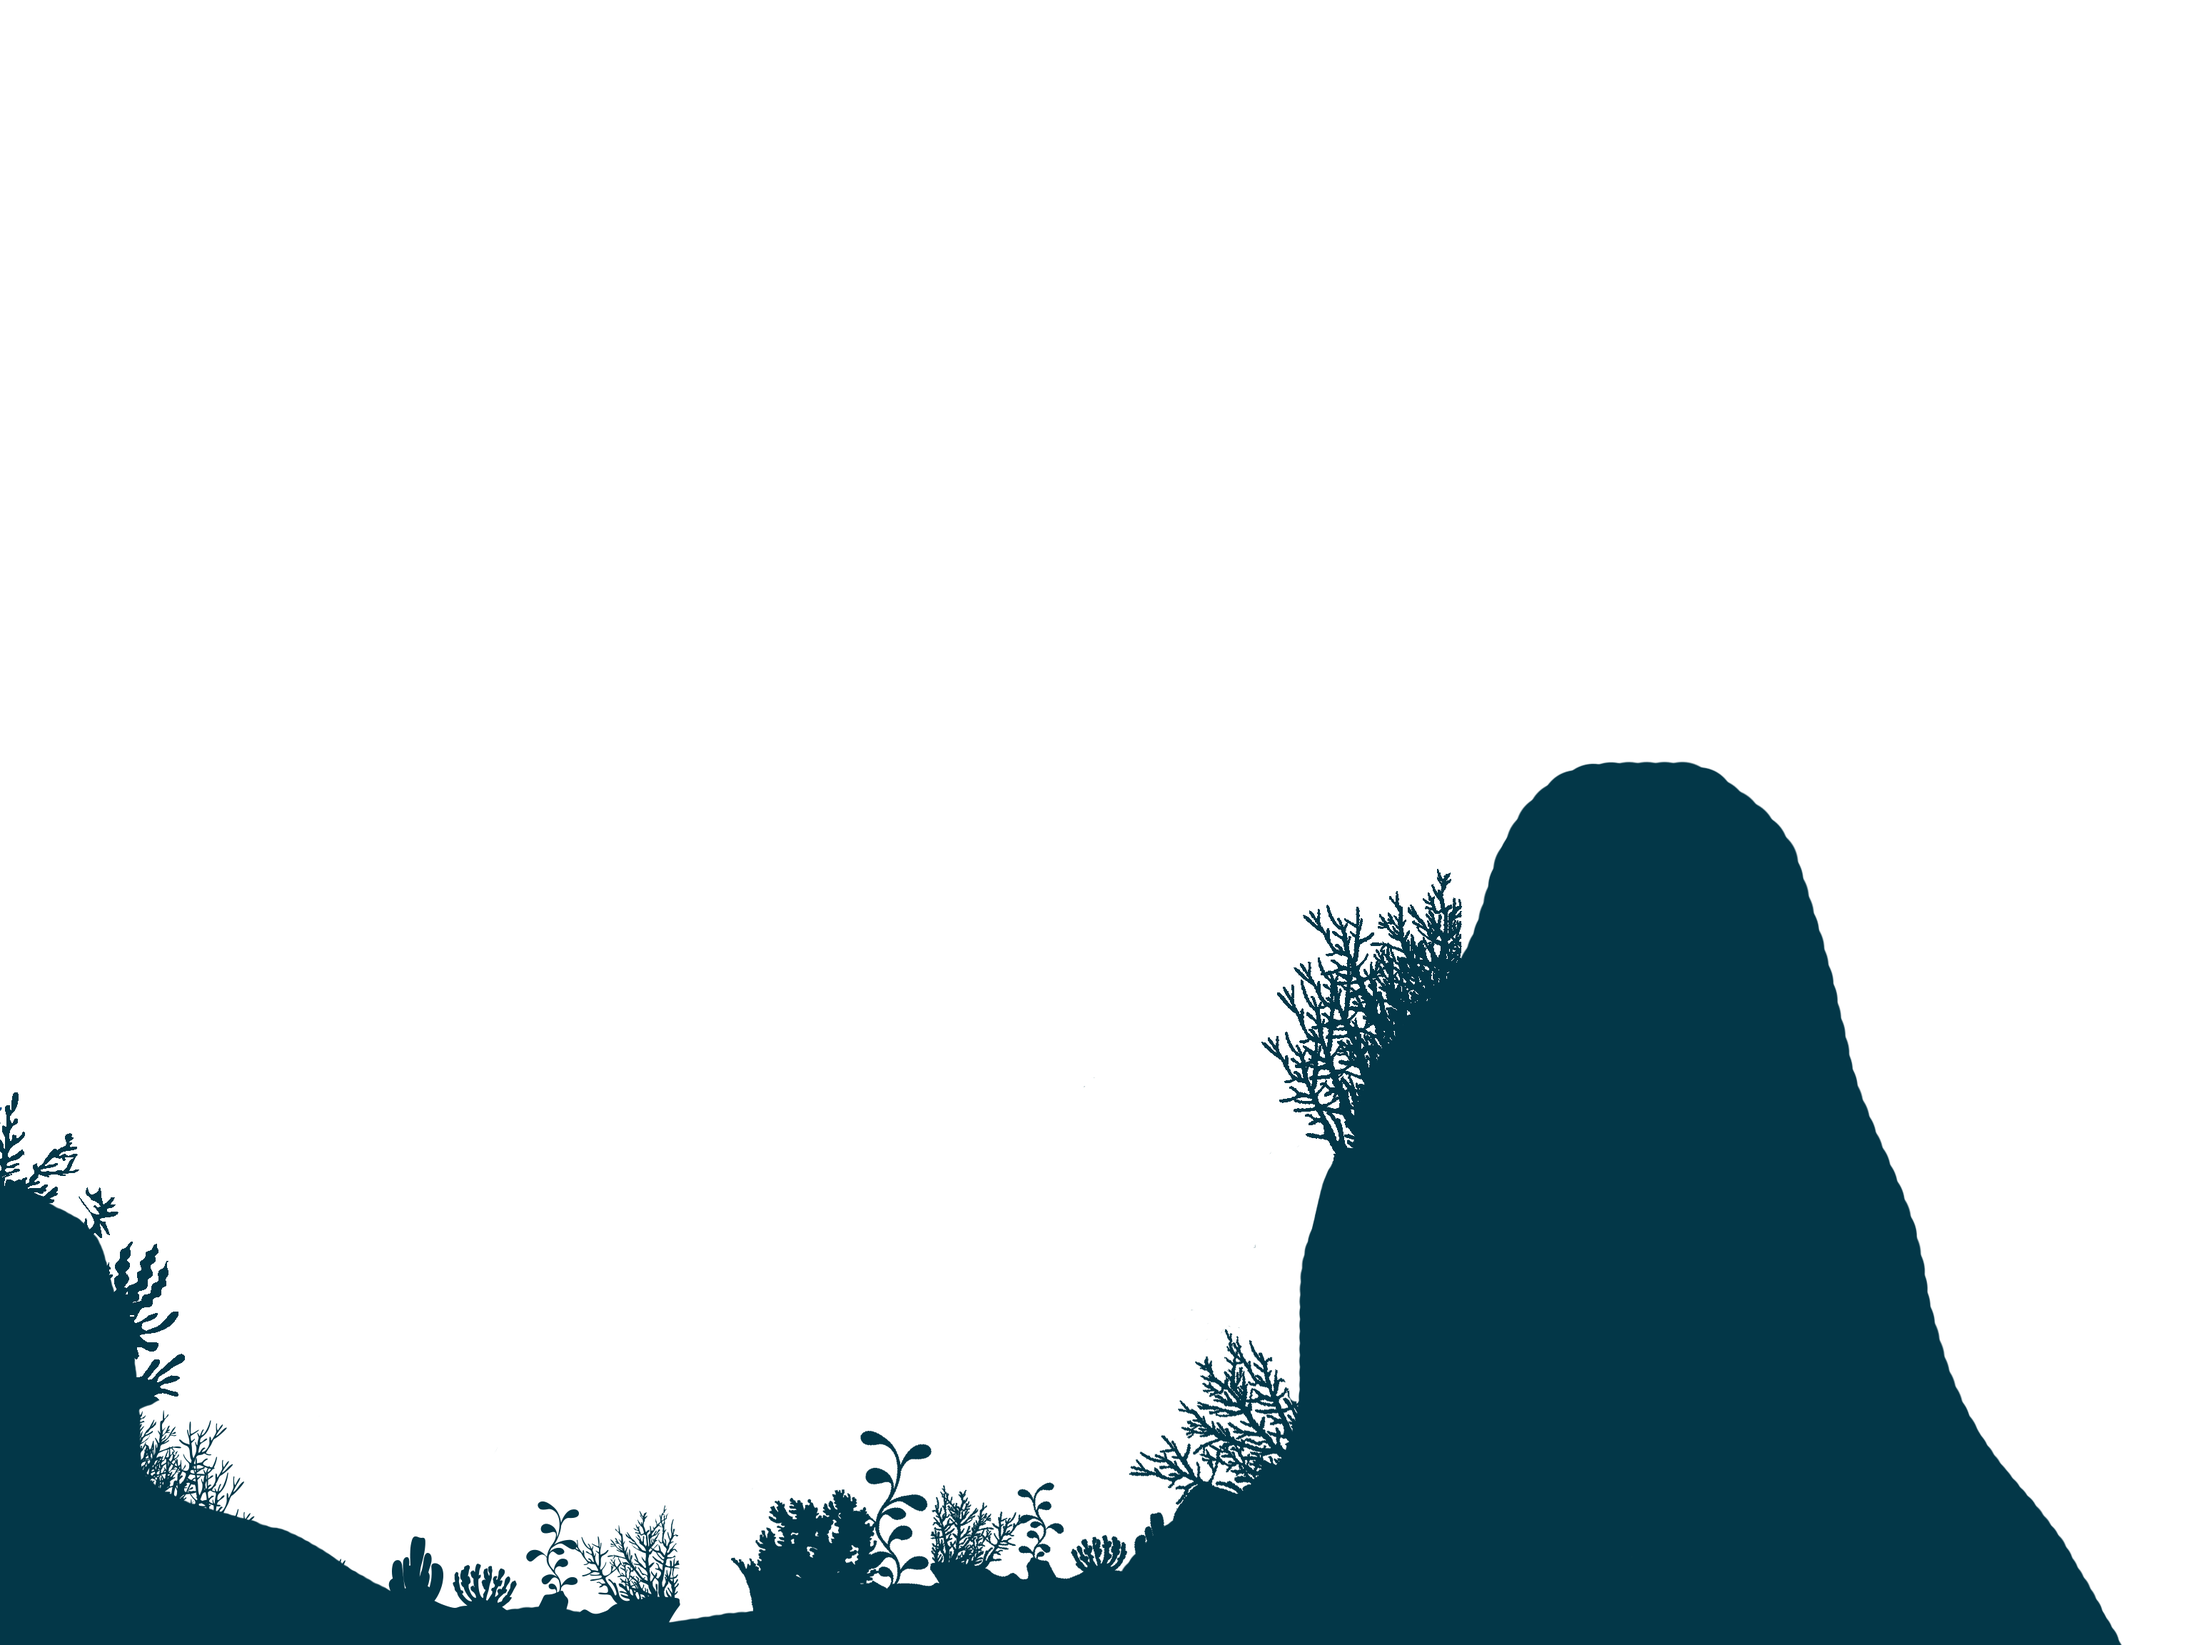
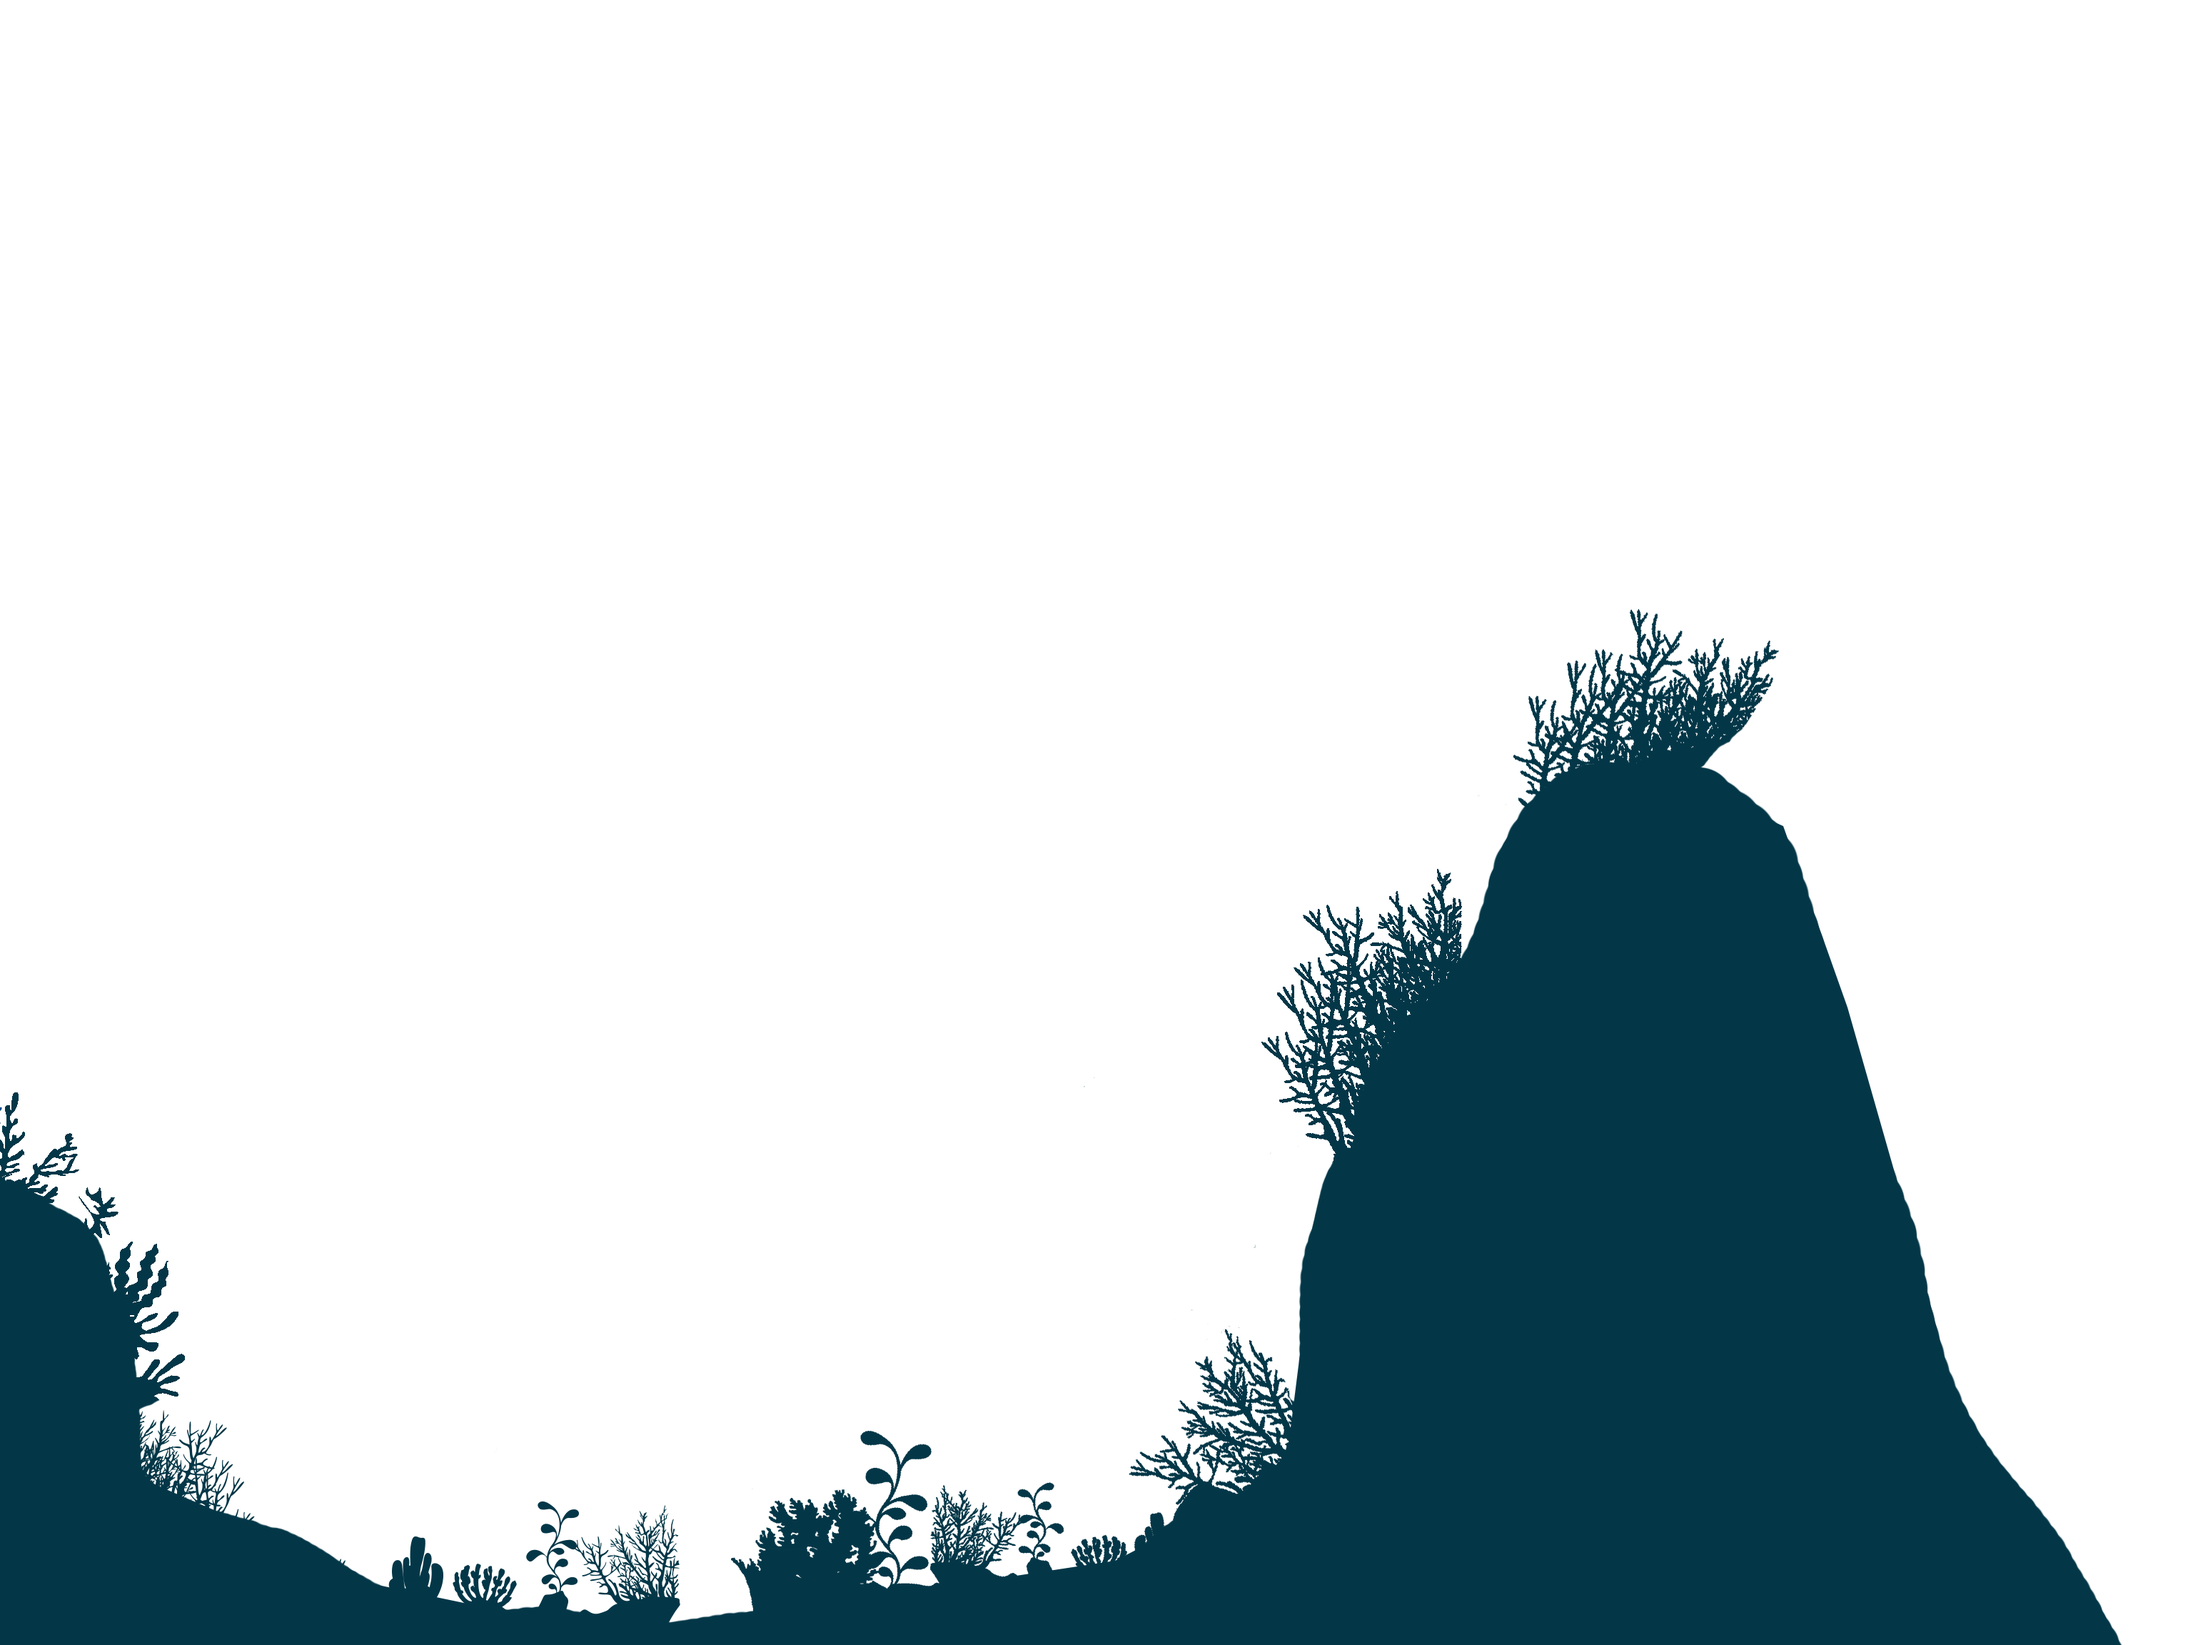
Added kelp forest

Changed region(s): [[0.6875, 0.375, 0.8125, 0.5], [0.8438, 0.625, 0.875, 0.6875], [0.8125, 0.5938, 0.8438, 0.625]]

diff --git a/src/pages/location/forest/Forest.svelte b/src/pages/location/forest/Forest.svelte
@@ -1,8 +1,10 @@
 <script lang="ts">
+  import { querystring } from "svelte-spa-router";
   import { onMount } from "svelte";
   import { Grid, Area } from "$components/exploration";
   import { Submarine } from "$components/gameObjects";
   import { TurbulentImg, BgImg } from "$components/ui/img";
+  import { Lol } from "$components/text";
   import { Darkness, UnderwaterGradient } from "$components/visual";
   import { gridOffset, minOffset, moveSub } from "$stores/exploration";
   import {
@@ -15,7 +17,13 @@
   import { ForestPath } from "$components/svg/environment";
   import underwater from "$assets/underwater_wide.jpg";
   import forest_1 from "$assets/forest/forest_1.png";
+  import forest_2 from "$assets/forest/forest_2.png";
+  import forest_3 from "$assets/forest/forest_3.png";
   import kelp_foreground from "$assets/forest/kelp_foreground.png";
+  import kelp_2 from "$assets/forest/kelp_2.png";
+  import kelp_3 from "$assets/forest/kelp_3.png";
+  import kelp_4 from "$assets/forest/kelp_4.png";
+  import { ArrowLeft } from "$components/svg/icons/animated";
 
   const grid = {
     width: $gameApi.windowWidth * 3,
@@ -31,6 +39,25 @@
   const depthRatio = $derived.by(() => {
     return $gridOffset.y / $minOffset.y;
   });
+
+  let initialPosition = { x: -222, y: 222 };
+  let initialTarget = {
+    x: 222,
+    y: 222,
+  };
+  const searchParams = new URLSearchParams($querystring);
+  if (searchParams.has("from", "wrecks")) {
+    initialPosition = { x: -222, y: $gameApi.windowHeight * 2.25 };
+    initialTarget = { x: 222, y: initialPosition.y };
+    gridOffset.set({ x: 0, y: -$gameApi.windowHeight * 1.5 }, { hard: true });
+  }
+
+  setSubPosition(initialPosition);
+  onMount(() => {
+    setTimeout(() => {
+      setSubTarget(initialTarget);
+    }, 555);
+  });
 </script>
 
 <Grid
@@ -40,16 +67,56 @@
   class="grid-rows-4"
 >
   <TurbulentImg src={underwater} class="opacity-35 z-[1]" />
-  <ForestPath class="absolute size-full z-[5] opacity-0 pointer-events-none" />
-  <BgImg src={forest_1} class="z-[5]" />
+  <BgImg
+    src={kelp_4}
+    class="z-[3]"
+    style="filter: brightness({1 -
+      depthRatio -
+      0.2}); transform: translateX({$gridOffset.x / 10}px);"
+  />
+  <BgImg
+    src={forest_3}
+    class="z-[4]"
+    style="transform: translateX({$gridOffset.x / 10}px);"
+  />
+  <BgImg
+    src={kelp_3}
+    class="z-[5]"
+    style="filter: brightness({1 -
+      depthRatio}); transform: translateX({$gridOffset.x / 8}px);"
+  />
+  <BgImg
+    src={forest_2}
+    class="z-[6]"
+    style="transform: translateX({$gridOffset.x / 8}px);"
+  />
+  <BgImg
+    src={kelp_2}
+    class="z-[7]"
+    style="filter: brightness({1 -
+      depthRatio +
+      0.2}); transform: translateX({$gridOffset.x / 6}px);"
+  />
+  <ForestPath
+    class="absolute size-full z-[8] opacity-0 pointer-events-none"
+    style="transform: translateX({$gridOffset.x / 6}px);"
+  />
+  <BgImg
+    src={forest_1}
+    class="z-[8]"
+    style="filter: brightness(0.5); transform: translateX({$gridOffset.x /
+      6}px);"
+  />
   <Submarine class="z-10" />
   <BgImg
     src={kelp_foreground}
     class="size-full z-[11]"
-    style="filter: brightness({1 - depthRatio + 0.2});"
+    style="filter: brightness({1 -
+      depthRatio +
+      0.4}); transform: translateX({$gridOffset.x / 4}px);"
   />
   <Darkness
-    level={$gridOffset.y / $minOffset.y - 0.2}
+    level={depthRatio * 0.5 + 0.5}
     lights={[{ x: $subCoords.x, y: $subCoords.y, unit: "px", radius: 4 }]}
     class="z-50"
   />
@@ -75,6 +142,13 @@
         --color-top="#037ADE"
         --color-bottom="#182B3A"
       />
+      <button
+        onclick={() => $gameApi.fadeScene("/wrecks?from=forest")}
+        class="absolute left-[1%] top-[22%] text-2xl flex items-center z-[20]"
+      >
+        <ArrowLeft class="w-[33px] h-[33px]" />
+        <Lol key="wrecks" class="mr-1" />
+      </button>
     </Area>
     <Area size={[grid.width, $gameApi.windowHeight]} onmousedown={moveSub}>
       <UnderwaterGradient

diff --git a/src/pages/location/wrecks/Wrecks.svelte b/src/pages/location/wrecks/Wrecks.svelte
@@ -47,9 +47,12 @@
     gridOffset.set({ x: 0, y: 0 }, { hard: true });
   }
   if (searchParams.has("from", "forest")) {
-    initialPosition = { x: grid.width + 111, y: 111 };
-    initialTarget = { x: grid.width - 222, y: 111 };
-    gridOffset.set({ x: $minOffset.x, y: 0 }, { hard: true });
+    initialPosition = { x: grid.width + 111, y: $gameApi.windowHeight * 2.75 };
+    initialTarget = { x: grid.width - 222, y: initialPosition.y };
+    gridOffset.set(
+      { x: $minOffset.x, y: -$gameApi.windowHeight * 2 },
+      { hard: true },
+    );
   }
 
   setSubPosition(initialPosition);
@@ -178,6 +181,13 @@
           class="absolute w-[55px] h-[55px] bottom-[33%] left-[44%] z-20"
         />
       {/if}
+      <button
+        onclick={() => $gameApi.fadeScene("/forest?from=wrecks")}
+        class="absolute right-[2%] bottom-[22%] text-2xl flex items-center z-[20]"
+      >
+        <Lol key="forest" class="mr-1" />
+        <ArrowRight class="w-[33px] h-[33px]" />
+      </button>
     </Area>
   {/snippet}
 </Grid>

diff --git a/src/lib/apis/objectives.svelte.ts b/src/lib/apis/objectives.svelte.ts
@@ -67,8 +67,6 @@ const chapterMap: ChapterMap = {
         get(inventoryApi).unlockItem("notepad");
       },
     },
-  ],
-  chapter1: [
     {
       key: "obj_prepare",
       onFinished: () => {
@@ -84,6 +82,8 @@ const chapterMap: ChapterMap = {
     {
       key: "obj_review-observations",
     },
+  ],
+  chapter1: [
     {
       key: "obj_question",
     },
